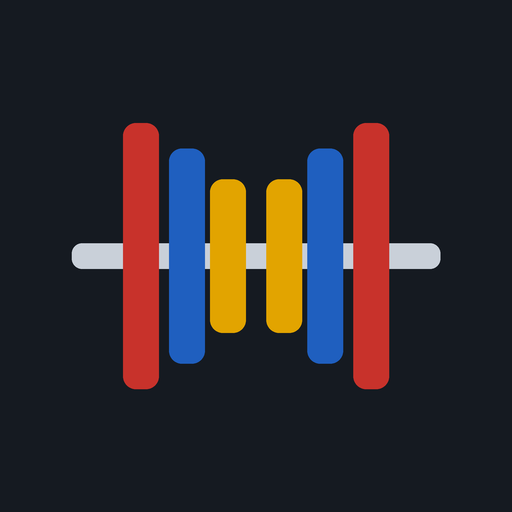
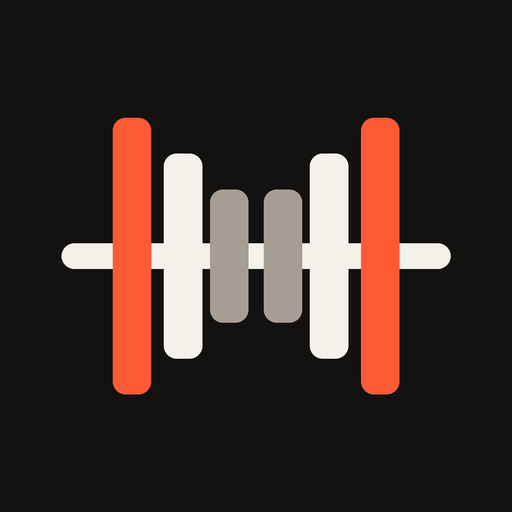
Version 1.4.1 Makeover

Changed region(s): [[0.125, 0.2188, 0.875, 0.7812]]

diff --git a/index.html b/index.html
@@ -6,9 +6,8 @@
 <meta name="apple-mobile-web-app-capable" content="yes">
 <meta name="mobile-web-app-capable" content="yes">
 <meta name="apple-mobile-web-app-title" content="Trainingslog">
-<meta name="apple-mobile-web-app-status-bar-style" content="default">
-<meta name="theme-color" content="#ffffff" media="(prefers-color-scheme: light)">
-<meta name="theme-color" content="#19202a" media="(prefers-color-scheme: dark)">
+<meta name="apple-mobile-web-app-status-bar-style" content="black-translucent">
+<meta name="theme-color" content="#131211">
 <link rel="manifest" href="manifest.webmanifest">
 <link rel="apple-touch-icon" href="icon-180.png">
 <link rel="icon" type="image/png" href="icon-192.png">
@@ -17,32 +16,20 @@
 <link rel="preconnect" href="https://fonts.gstatic.com" crossorigin>
 <link href="https://fonts.googleapis.com/css2?family=Big+Shoulders+Display:wght@600;800&family=Instrument+Sans:wght@400;500;600&display=swap" rel="stylesheet">
 <style>
-/* Layout: ein Bildschirm aus Kopfzeile, scrollendem Inhalt und Tableiste unten.
-   Der Akzent ist die Tagesfarbe, angelehnt an Hantelscheiben: Push rot, Pull blau, Legs gelb. */
+/* Marke: warmes Anthrazit und Kreideweiß, ein einziger Akzent im Rot der 25-kg-Scheibe.
+   Layout: ein Bildschirm aus Kopfzeile, scrollendem Inhalt und Tableiste unten. */
 :root{
-  --bg:#eceff3; --surface:#ffffff; --sunk:#f3f5f8; --ink:#151a21; --muted:#5b6573; --line:#d3d9e1;
-  --push:#c8322b; --pull:#1f5fbf; --legs:#e2a400; --good:#1c8749;
-  --on-push:#ffffff; --on-pull:#ffffff; --on-legs:#1c1500;
-  --c4:#7446c4; --c5:#0e8585; --on-c4:#ffffff; --on-c5:#ffffff;
-  --day:var(--pull); --on-day:var(--on-pull);
+  --bg:#131211; --surface:#1c1a18; --sunk:#171514; --raise:#27231f; --ink:#f4f0ea; --muted:#a69e94; --line:#332f2a;
+  --accent:#ff5a36; --on-accent:#1b0a05; --good:#5cc48d; --warn:#e6b450;
+  --push:var(--accent); --pull:var(--accent); --legs:var(--accent); --c4:var(--accent); --c5:var(--accent);
+  --on-push:var(--on-accent); --on-pull:var(--on-accent); --on-legs:var(--on-accent); --on-c4:var(--on-accent); --on-c5:var(--on-accent);
+  --day:var(--accent); --on-day:var(--on-accent);
+  --top-bg:var(--bg); --top-ink:var(--ink); --top-accent:var(--accent); --top-muted:var(--muted); --bar:#0e0d0c;
+  --r-s:8px; --r-m:12px; --r-l:18px;
+  --s1:4px; --s2:8px; --s3:12px; --s4:16px; --s5:24px; --s6:36px;
+  --t-xs:12px; --t-s:14px; --t-m:16px; --t-l:20px; --t-xl:28px; --t-2xl:44px;
   --display:"Big Shoulders Display","Arial Narrow",Impact,sans-serif;
   --body:"Instrument Sans",system-ui,-apple-system,"Segoe UI",sans-serif;
-  color-scheme:light;
-}
-@media (prefers-color-scheme:dark){
-  :root:not([data-theme="light"]){
-    --bg:#0f1319; --surface:#19202a; --sunk:#121820; --ink:#eef1f5; --muted:#98a3b2; --line:#2b3542;
-    --push:#f0635a; --pull:#62a0f6; --legs:#f3c033; --good:#4cc47f;
-    --on-push:#10141a; --on-pull:#10141a; --on-legs:#10141a;
-    --c4:#b394f5; --c5:#4fcfcf; --on-c4:#10141a; --on-c5:#10141a;
-    color-scheme:dark;
-  }
-}
-:root[data-theme="dark"]{
-  --bg:#0f1319; --surface:#19202a; --sunk:#121820; --ink:#eef1f5; --muted:#98a3b2; --line:#2b3542;
-  --push:#f0635a; --pull:#62a0f6; --legs:#f3c033; --good:#4cc47f;
-  --on-push:#10141a; --on-pull:#10141a; --on-legs:#10141a;
-    --c4:#b394f5; --c5:#4fcfcf; --on-c4:#10141a; --on-c5:#10141a;
   color-scheme:dark;
 }
 [data-day="push"]{--day:var(--push);--on-day:var(--on-push)}
@@ -231,21 +218,116 @@ svg.chart{display:block;width:100%;height:auto}
 .prow .ib{width:38px}
 .lab{display:flex;flex-direction:column;gap:4px;font-size:13px;color:var(--muted)}
 .note{font-size:13px;color:var(--muted)}
+/* ---------- Marken-Ebene: Flächen, Typo, Knöpfe, Karten ---------- */
+body{background:var(--bg);color:var(--ink);font-size:var(--t-m)}
+.top{background:var(--bg);border-bottom:1px solid var(--line)}
+.brand{display:flex;align-items:center;gap:8px;font-size:21px;letter-spacing:.08em;white-space:nowrap}
+.sync{white-space:nowrap;flex:none}
+.top{gap:8px}
+.brand svg{width:30px;height:18px;flex:none}
+.brand b{color:var(--accent)}
+.view{gap:var(--s4);padding:var(--s4) var(--s4) var(--s6)}
+.card{background:var(--surface);border:1px solid var(--line);border-radius:var(--r-l);padding:var(--s4)}
+.sect{font-size:var(--t-xl);letter-spacing:.04em}
+.note,.empty{color:var(--muted)}
+.link{color:var(--accent)}
+[data-day="legs"] .link{color:var(--accent)}
+.btn{font-family:var(--display);font-weight:800;font-size:19px;letter-spacing:.07em;text-transform:uppercase;line-height:1.1;padding:13px 22px;border-radius:var(--r-m);background:var(--accent);color:var(--on-accent)}
+.btn.sec{background:transparent;color:var(--ink);border:1.5px solid var(--muted)}
+a.btn{display:inline-block;text-decoration:none}
+.ghost{border-color:var(--muted);color:var(--ink);border-radius:var(--r-m)}
+.ib{background:var(--surface);border-color:var(--line);border-radius:var(--r-m)}
+select,.field{background:var(--raise);border-color:var(--line);border-radius:var(--r-m);color:var(--ink)}
+.field::placeholder,.step input::placeholder{color:var(--muted);opacity:.8}
+.step{background:var(--sunk);border-color:var(--line);border-radius:var(--r-m)}
+.step input{background:var(--raise);border-color:var(--line)}
+.step button{color:var(--ink)}
+.set.done .step input{background:var(--sunk)}
+.chk{background:var(--sunk);border-color:var(--muted);color:var(--muted);border-radius:var(--r-m)}
+.set.done .chk{background:var(--accent);border-color:var(--accent);color:var(--on-accent)}
+.ex{border-left:3px solid var(--accent)}
+.ex.full{border-left-color:var(--good)}
+.target{color:var(--accent)}
+.dayhead{gap:10px;padding:var(--s2) 0 var(--s1)}
+.dayhead h1{font-size:68px;letter-spacing:.01em}
+.dayhead h1.long{font-size:44px}
+.prog .bar{height:6px;background:var(--line)}
+.pill{background:var(--raise);border-color:var(--line)}
+.week{gap:5px}
+.wk{background:var(--surface);border-color:var(--line);border-bottom-color:var(--line);border-radius:var(--r-s);padding:7px 0 6px}
+.wk[data-day]{border-bottom-color:var(--accent)}
+.wk.cur{outline:2px solid var(--ink);outline-offset:2px}
+.chip{background:var(--surface);border-color:var(--line);border-radius:var(--r-m)}
+.chip[data-arm="1"]{border-color:var(--ink)}
+.seg{background:var(--sunk);border-color:var(--line);border-radius:var(--r-m)}
+.seg button{color:var(--muted)}
+.eq button{background:transparent;border-color:var(--muted);color:var(--ink)}
+.tiles{gap:var(--s2)}
+.tile{background:var(--surface);border-color:var(--line);border-radius:var(--r-m);padding:12px 12px 10px}
+.tile b{font-size:36px}
+.tile:first-child b{color:var(--accent)}
+.quick button{background:var(--surface);border-color:var(--line);border-radius:var(--r-m)}
+.fav{background:var(--surface);border-color:var(--line)}
+.wds button,.prow input{background:var(--raise);border-color:var(--line)}
+.plbtn{background:var(--raise);border-color:var(--line);border-radius:var(--r-m)}
+.plbtn[aria-pressed="true"]{border-color:var(--accent)}
+.pldel{background:transparent;border-color:var(--line)}
+.pday{border-top:3px solid var(--accent)}
+.hint{border-left:3px solid var(--accent)}
+.down{color:var(--warn)}
+.chart .dot{fill:var(--bg)}
+.chart .bar{opacity:.38}
+.chart .ar{opacity:.16}
+.chart .goal{stroke:var(--muted)}
+.ring .tr{stroke:var(--line)}
+.tag{border-radius:var(--r-s)}
+.tabs{border-top:1px solid var(--line)}
+.tabs a{display:flex;flex-direction:column;align-items:center;gap:4px;padding:9px 4px 10px;font-size:13px;letter-spacing:.1em;border-top:2px solid transparent}
+.tabs a svg{width:22px;height:22px}
+.tabs a[aria-current="page"]{color:var(--ink);border-top-color:var(--accent)}
+.tabs a[aria-current="page"] svg{color:var(--accent)}
+:focus-visible{outline:2px solid var(--accent);outline-offset:2px}
+/* Heller Modus: Blau und Weiß */
+:root[data-mode="light"]{
+  --bg:#f3f6fb; --surface:#ffffff; --sunk:#edf1f8; --raise:#f7f9fd; --ink:#0f1c33; --muted:#55627a; --line:#d4dcea;
+  --accent:#1556d6; --on-accent:#ffffff; --good:#17804a; --warn:#a05f00;
+  --top-bg:#1556d6; --top-ink:#ffffff; --top-accent:#bfd4ff; --top-muted:#dbe6ff; --bar:#ffffff;
+  color-scheme:light;
+}
+.top{background:var(--top-bg);border-bottom-color:transparent}
+:root:not([data-mode="light"]) .top{border-bottom-color:var(--line)}
+.brand{color:var(--top-ink)}
+.brand b{color:var(--top-accent)}
+.top .sync{color:var(--top-muted)}
+.tabs{background:var(--bar);grid-template-columns:repeat(4,minmax(0,1fr)) minmax(0,1.4fr)}
+.tabs a{font-size:11.5px;letter-spacing:.03em;min-width:0;padding-left:2px;padding-right:2px}
+.tabs a span{max-width:100%;overflow:hidden;white-space:nowrap}
+/* Einstieg ohne Plan */
+.hero{display:flex;flex-direction:column;gap:var(--s4);padding:var(--s5) 0 var(--s2)}
+.hero .mark{width:100%;max-width:340px;height:auto}
+.eyebrow{font-size:var(--t-xs);letter-spacing:.18em;text-transform:uppercase;color:var(--accent);font-weight:600}
+.hero h1{font-family:var(--display);font-weight:800;font-size:clamp(56px,19vw,84px);line-height:.88;text-transform:uppercase;letter-spacing:.005em;text-wrap:balance}
+.hero h1 em{font-style:normal;color:var(--accent)}
+.hero .lead{font-size:17px;line-height:1.45;max-width:34ch}
+.feat{list-style:none;margin:var(--s2) 0 0;padding:0;border-top:1px solid var(--line)}
+.feat li{display:grid;grid-template-columns:92px 1fr;gap:var(--s3);padding:13px 0;border-bottom:1px solid var(--line);font-size:var(--t-s);color:var(--muted);align-items:baseline}
+.feat b{font-family:var(--display);font-weight:800;font-size:19px;letter-spacing:.07em;text-transform:uppercase;color:var(--ink)}
 @media (prefers-reduced-motion:reduce){*{animation:none!important;transition:none!important}}
 </style>
 </head>
 <body data-day="pull">
 <header class="top">
-  <div class="brand">Trainings<b>log</b></div>
+  <div class="brand"><svg viewBox="0 0 60 36" aria-hidden="true"><rect x="2" y="16" width="56" height="4" rx="2" style="fill:var(--top-ink)"/><rect x="9" y="3" width="7" height="30" rx="2" style="fill:var(--top-accent)"/><rect x="18" y="8" width="5" height="20" rx="2" style="fill:var(--top-ink)"/><rect x="44" y="3" width="7" height="30" rx="2" style="fill:var(--top-accent)"/><rect x="37" y="8" width="5" height="20" rx="2" style="fill:var(--top-ink)"/></svg><span>Trainings<b>log</b></span></div>
   <div class="sync" id="sync" data-s="loading"><i></i><span id="syncText">Lädt …</span></div>
 </header>
 <button id="toast" hidden aria-live="assertive"></button>
 <main id="main"><div class="view" id="view"></div></main>
 <nav class="tabs" id="tabs" aria-label="Bereiche">
-  <a href="#heute">Training</a>
-  <a href="#verlauf">Verlauf</a>
-  <a href="#protein">Protein</a>
-  <a href="#plan">Plan</a>
+  <a href="#heute"><svg viewBox="0 0 24 24" fill="none" stroke="currentColor" stroke-width="2" stroke-linecap="round" stroke-linejoin="round" aria-hidden="true"><path d="M3 12h18M6.5 7v10M17.5 7v10M3.5 9.5v5M20.5 9.5v5"/></svg><span>Training</span></a>
+  <a href="#verlauf"><svg viewBox="0 0 24 24" fill="none" stroke="currentColor" stroke-width="2" stroke-linecap="round" stroke-linejoin="round" aria-hidden="true"><path d="M4 18l5-6 4 3 7-9M15 6h5v5"/></svg><span>Verlauf</span></a>
+  <a href="#protein"><svg viewBox="0 0 24 24" fill="none" stroke="currentColor" stroke-width="2" stroke-linecap="round" stroke-linejoin="round" aria-hidden="true"><circle cx="12" cy="12" r="8.5" opacity=".35"/><path d="M12 3.5a8.5 8.5 0 1 1-7.4 12.7"/></svg><span>Protein</span></a>
+  <a href="#plan"><svg viewBox="0 0 24 24" fill="none" stroke="currentColor" stroke-width="2" stroke-linecap="round" stroke-linejoin="round" aria-hidden="true"><rect x="4" y="5" width="16" height="15" rx="2"/><path d="M4 10h16M9 3v4M15 3v4"/></svg><span>Plan</span></a>
+  <a href="#einstellungen"><svg viewBox="0 0 24 24" fill="none" stroke="currentColor" stroke-width="2" stroke-linecap="round" stroke-linejoin="round" aria-hidden="true"><path d="M4 7h9M17 7h3M4 17h3M11 17h9"/><circle cx="15" cy="7" r="2"/><circle cx="9" cy="17" r="2"/></svg><span>Einstellungen</span></a>
 </nav>
 <script>
 (function(){
@@ -268,7 +350,7 @@ var dShort=new Intl.DateTimeFormat('de-DE',{day:'2-digit',month:'2-digit'});
 function shortDate(s){return dShort.format(parse(s))}
 
 function defaults(){return{v:2,t:0,proteinGoal:150,step:2.5,favs:[],days:[]}}
-var STANDALONE=true,BUILD='16.11.2026 16:45';
+var STANDALONE=true,BUILD='1.4.1';
 var EQ=[['lh','Langhantel mit Rack'],['bank','Hantelbank'],['kh','Kurzhanteln'],['kabel','Kabelzug'],['lat','Latzug'],['ruder','Rudermaschine'],['brust','Brustpresse'],['fly','Butterfly'],
   ['schulter','Schulterpresse'],['smith','Multipresse'],['bp','Beinpresse'],['strecker','Beinstrecker'],['beuger','Beinbeuger'],['wade','Wadenmaschine'],['klimm','Klimmzugstange'],['dip','Dip-Barren']];
 var SLOT={
@@ -489,7 +571,7 @@ function weekStrip(){var mon=mondayOf(view.date),plan=weekPlan(mon);
     return'<button class="wk'+(d===view.date?' cur':'')+(dn?' dn':'')+'" data-act="goto" data-date="'+d+'"'+(dd?' data-day="'+col(dd)+'"':'')+(d>weekEnd()?' disabled':'')+
       ' aria-label="'+esc(dLong.format(parse(d))+': '+(dd?dd.name:'Ruhetag')+(dn?', erledigt':''))+'"><span>'+WD[parse(d).getDay()]+'</span><b>'+(dd?esc(dd.short||dd.name||'Tag'):(S.config.days.length?'Ruhe':'–'))+'</b></button>'}).join('')+'</div>'}
 var storageOK=(function(){try{localStorage.setItem('trainingslog.test','1');var ok=localStorage.getItem('trainingslog.test')==='1';localStorage.removeItem('trainingslog.test');return ok}catch(e){return false}})();
-function topNotes(){var h=auth?'':'<p class="note">Nicht angemeldet, deine Einträge liegen nur auf diesem Gerät. <a class="link" href="#plan">Anmelden</a></p>';
+function topNotes(){var h=auth?'':'<p class="note">Nicht angemeldet, deine Einträge liegen nur auf diesem Gerät. <a class="link" href="#einstellungen">Anmelden</a></p>';
   if(!storageOK)h+='<div class="card stack hint"><p><b>Dieser Browser speichert nichts dauerhaft.</b></p><p class="note">Das passiert zum Beispiel in einem privaten Tab. Öffne die App in einem normalen Tab oder über das Icon auf dem Home-Bildschirm.</p></div>';
   return h}
 function wizard(){var su=view.setup||(view.setup={n:0,goal:'muskel',eq:JSON.parse(JSON.stringify(S.config.eq||{}))});
@@ -531,8 +613,13 @@ function dayText(date){
   pl.forEach(function(x){L.push('  '+(x.l||'Protein')+': '+fmt(x.g)+' g')});
   return L.join('\n')}
 function renderToday(){
-  if(!S.config.days.length){document.body.dataset.day='pull';$('#view').innerHTML=topNotes()+dateBar()+weekStrip()+
-    '<div class="card stack"><h1 class="sect">Noch kein Trainingsplan</h1><p class="note">Dein Kalender ist leer. Im Tab Plan legst du über „Neuer Plan“ einen an.</p><div><a class="btn" href="#plan" style="text-decoration:none;display:inline-block">Zum Plan</a></div></div>';return}
+  if(!S.config.days.length){document.body.dataset.day='pull';$('#view').innerHTML=topNotes()+
+    '<section class="hero"><svg class="mark" viewBox="0 0 340 96" aria-hidden="true"><rect x="0" y="44" width="340" height="8" rx="4" style="fill:var(--ink)"/><rect x="44" y="4" width="22" height="88" rx="5" style="fill:var(--accent)"/><rect x="72" y="14" width="16" height="68" rx="5" style="fill:var(--ink)"/><rect x="94" y="26" width="11" height="44" rx="4" style="fill:var(--muted)"/><rect x="274" y="4" width="22" height="88" rx="5" style="fill:var(--accent)"/><rect x="252" y="14" width="16" height="68" rx="5" style="fill:var(--ink)"/><rect x="235" y="26" width="11" height="44" rx="4" style="fill:var(--muted)"/></svg><p class="eyebrow">Dein Trainingstagebuch fürs Gym</p><h1>Jeder Satz <em>zählt.</em></h1>'+
+    '<p class="lead">Plane deine Woche, hake jeden Satz ab und sieh, wie deine Gewichte steigen. Für alle, die im Gym trainieren und ihren Fortschritt festhalten wollen.</p>'+
+    '<div class="rowbtns"><a class="btn" href="#plan">Plan anlegen</a></div>'+
+    '<ul class="feat"><li><b>Plan</b><span>Eigene Pläne oder ein Vorschlag nach Ziel und Geräten</span></li><li><b>Training</b><span>Sätze mit Gewicht und Wiederholungen abhaken</span></li>'+
+    '<li><b>Verlauf</b><span>Steigerung je Übung und insgesamt</span></li><li><b>Protein</b><span>Dein Tagesziel im Blick</span></li></ul></section>'+
+    '<h2 class="sect">Deine Woche</h2>'+dateBar()+weekStrip()+'<p class="note">Noch leer. Sobald dein Plan steht, siehst du hier jeden Trainingstag.</p>';return}
   if(view.day===null)view.day=pickDay(view.date);
   var day=view.day?dayById(view.day):null,s=sess(view.date);
   document.body.dataset.day=day?col(day):'pull';
@@ -658,7 +745,7 @@ function renderProtein(){
 }
 
 function renderPlan(){
-  var h=kontoCard()+plansCard(),ap=activePlan();
+  var h=plansCard(),ap=activePlan();
   if(view.planMsg){h+='<p class="tip">'+esc(view.planMsg)+'</p>';view.planMsg=''}
   if(ap)h+='<h1 class="sect">Aktiver Plan</h1><label class="lab" for="plRename">Name des Plans<input class="field" id="plRename" value="'+esc(ap.name||'')+'"></label>'+
     '<p class="note">Das ist deine Standardwoche. Einen einzelnen Ruhetag verlegst du im Tab Training.</p>'+(S.config.days.length?'':'<p class="note">Dieser Plan hat noch keine Trainingstage.</p>');
@@ -679,7 +766,21 @@ function renderPlan(){
         '<button class="ib" data-act="exdel" aria-label="Übung entfernen">×</button></div></div>'});
     h+='<div class="rowbtns"><button class="ghost" data-act="exadd">+ Übung</button><button class="ghost" data-act="daydel">Tag löschen</button></div></section>'});
   if(ap)h+='<div class="rowbtns"><button class="btn" data-act="dayadd">+ Trainingstag</button><button class="ghost" data-act="pldel">Plan löschen</button></div>';
-  h+='<div class="card stack"><h2 class="sect">Einstellungen</h2>'+
+  $('#view').innerHTML=h;
+  if(view.focusId){var fe0=document.getElementById(view.focusId);view.focusId=null;if(fe0){fe0.scrollIntoView({block:'center'});try{fe0.focus({preventScroll:true})}catch(e){}}}
+}
+
+var theme='dark';
+function setTheme(m){theme=m==='light'?'light':'dark';document.documentElement.dataset.mode=theme;try{localStorage.setItem('trainingslog.theme',theme)}catch(e){}
+  var mt=document.querySelector('meta[name="theme-color"]');if(mt)mt.setAttribute('content',theme==='light'?'#1556d6':'#131211')}
+(function(){var m='dark';try{m=localStorage.getItem('trainingslog.theme')||'dark'}catch(e){}setTheme(m)})();
+function renderSettings(){
+  var h='<h1 class="sect">Einstellungen</h1>';
+  h+='<div class="card stack"><h2 class="sect">Darstellung</h2><div class="seg">'+[['dark','Dunkel'],['light','Hell']].map(function(m){return'<button data-act="theme" data-m="'+m[0]+'" aria-pressed="'+(theme===m[0])+'">'+m[1]+'</button>'}).join('')+'</div>'+
+    '<p class="note">Dunkel ist Anthrazit mit Rot, Hell ist Blau und Weiß. Die Wahl gilt für dieses Gerät.</p></div>';
+  h+=kontoCard();
+  h+='<div class="card stack"><h2 class="sect">Training</h2>'+
+    '<label class="lab" for="goalSet">Protein-Tagesziel in Gramm<input class="field" id="goalSet" inputmode="numeric" value="'+fin(S.config.proteinGoal||0)+'"></label>'+
     '<label class="lab" for="stepSel">Schritt der Plus- und Minus-Tasten beim Gewicht<select id="stepSel">'+[1,1.25,2.5,5].map(function(v){return'<option value="'+v+'"'+(S.config.step===v?' selected':'')+'>'+fmt(v)+' kg</option>'}).join('')+'</select></label>'+
     '</div><div class="card stack"><h2 class="sect">Sicherung</h2>'+
     '<p class="note">'+(auth?'Deine Einträge liegen auf dem Server. Eine Datei-Sicherung ist nur eine zusätzliche Absicherung.':'Ohne Konto liegen deine Einträge nur auf diesem Gerät. Wenn du das Icon vom Home-Bildschirm löschst, sind sie weg.')+'</p>'+
@@ -691,15 +792,14 @@ function renderPlan(){
     '<p class="note">Safari und das Icon speichern getrennt. Melde dich deshalb in der App vom Icon noch einmal an.</p></div>';
   h+='<p class="note">Version '+BUILD+'</p>';
   $('#view').innerHTML=h;
-  if(view.focusId){var fe0=document.getElementById(view.focusId);view.focusId=null;if(fe0){fe0.scrollIntoView({block:'center'});try{fe0.focus({preventScroll:true})}catch(e){}}}
 }
 
 function render(){
   document.querySelectorAll('#tabs a').forEach(function(a){if(a.getAttribute('href')==='#'+view.tab)a.setAttribute('aria-current','page');else a.removeAttribute('aria-current')});
   if(view.tab!=='heute'){var d=view.day?dayById(view.day):null;document.body.dataset.day=d?col(d):'pull'}
-  if(view.tab==='verlauf')renderStats();else if(view.tab==='protein')renderProtein();else if(view.tab==='plan')renderPlan();else renderToday();
+  if(view.tab==='verlauf')renderStats();else if(view.tab==='protein')renderProtein();else if(view.tab==='plan')renderPlan();else if(view.tab==='einstellungen')renderSettings();else renderToday();
 }
-function route(){var h=(location.hash||'').slice(1);var nt=['heute','verlauf','protein','plan'].indexOf(h)>=0?h:'heute';
+function route(){var h=(location.hash||'').slice(1);var nt=['heute','verlauf','protein','plan','einstellungen'].indexOf(h)>=0?h:'heute';
   if(nt!==view.tab){view.tab=nt;$('#main').scrollTop=0}render()}
 
 /* ---------- Pausenuhr ---------- */
@@ -783,6 +883,7 @@ document.addEventListener('click',function(ev){
       if(STANDALONE){try{var xf=new File([xt],fn,{type:'text/plain'});if(navigator.canShare&&navigator.canShare({files:[xf]})){navigator.share({files:[xf]}).catch(function(){});break}}catch(e){}
         var xa=document.createElement('a');xa.href=URL.createObjectURL(new Blob([xt],{type:'text/plain;charset=utf-8'}));xa.download=fn;document.body.appendChild(xa);xa.click();xa.remove();xn.textContent='Als '+fn+' gespeichert.';break}
       try{navigator.clipboard.writeText(xt).then(function(){xn.textContent='Kopiert. Füge den Text in eine Notiz oder Nachricht ein.'},function(){xn.textContent='Kopieren wurde vom Browser nicht erlaubt.'})}catch(e){xn.textContent='Kopieren wurde vom Browser nicht erlaubt.'}break;
+    case'theme':setTheme(b.dataset.m);render();break;
     case'metric':view.metric=b.dataset.m;renderStats();break;
     case'padd':addProtein(+b.dataset.g,'');break;
     case'pfav':var fv=S.config.favs[+b.dataset.i];if(fv)addProtein(fv.g,fv.label);break;
@@ -809,16 +910,16 @@ document.addEventListener('click',function(ev){
       .then(function(j){if(j&&j.access_token){setSession(j);authMsg='';startCloud()}
         else if(j&&j.identities&&j.identities.length===0)authMsg='Für diese Adresse gibt es schon ein Konto. Melde dich an.';
         else authMsg='Fast fertig: Öffne den Link in der E-Mail an '+em+' und melde dich danach hier an.';
-        renderPlan()},function(e){b.disabled=false;am.textContent=authErr(e)});break;
+        render()},function(e){b.disabled=false;am.textContent=authErr(e)});break;
     case'logout':if(cloud&&Object.keys(S.dirty).length){$('#accMsg').textContent='Es ist noch nicht alles gesichert. Bitte kurz warten und noch einmal abmelden.';clearTimeout(ft);flush();break}
       var ot=auth&&auth.access_token;if(ot)sbFetch('/auth/v1/logout','POST',null,ot).catch(function(){});
-      S.config=defaults();S.months={};S.dirty={};delete S.owner;saveLocal();view.day=null;signedOut('Abgemeldet. Die Einträge bleiben auf dem Server.');if(view.tab!=='plan')render();break;
+      S.config=defaults();S.months={};S.dirty={};delete S.owner;saveLocal();view.day=null;signedOut('Abgemeldet. Die Einträge bleiben auf dem Server.');break;
     case'bfile':var bt=JSON.stringify({config:S.config,months:S.months}),bn='trainingslog-'+todayIso()+'.json',note2=$('#backupNote');
       try{var file=new File([bt],bn,{type:'application/json'});
         if(navigator.canShare&&navigator.canShare({files:[file]})){navigator.share({files:[file]}).then(function(){note2.textContent='Sicherung übergeben.'},function(){});break}}catch(e){}
       var ba=document.createElement('a');ba.href=URL.createObjectURL(new Blob([bt],{type:'application/json'}));ba.download=bn;document.body.appendChild(ba);ba.click();ba.remove();
       note2.textContent='Sicherung als Datei gespeichert.';break;
-    case'impgo':if(!pendingImport)break;S.config=pendingImport.config;S.months=pendingImport.months||{};S.dirty={};pendingImport=null;var now=Date.now();S.config.t=now;S.dirty.config=1;Object.keys(S.months).forEach(function(k){S.months[k].t=now;S.dirty[k]=1});if(auth)S.owner=auth.user.id;saveLocal();scheduleFlush();view.day=null;renderPlan();
+    case'impgo':if(!pendingImport)break;S.config=pendingImport.config;S.months=pendingImport.months||{};S.dirty={};pendingImport=null;var now=Date.now();S.config.t=now;S.dirty.config=1;Object.keys(S.months).forEach(function(k){S.months[k].t=now;S.dirty[k]=1});if(auth)S.owner=auth.user.id;saveLocal();scheduleFlush();view.day=null;render();
       $('#backupNote').textContent='Sicherung eingespielt.';break;
     case'backup':var txt=JSON.stringify({config:S.config,months:S.months}),note=$('#backupNote');
       try{navigator.clipboard.writeText(txt).then(function(){note.textContent='Sicherung kopiert. Füge sie in eine Notiz ein, um sie aufzubewahren.'},function(){note.textContent='Kopieren wurde vom Browser nicht erlaubt.'})}
@@ -833,7 +934,7 @@ document.addEventListener('change',function(ev){
       var n=$('#backupNote'),g=$('#impGo');if(o&&o.config&&Array.isArray(o.config.days)){pendingImport=o;if(g)g.hidden=false;if(n)n.textContent='Datei gelesen. Mit dem Knopf ersetzt du alle Einträge auf diesem Gerät.'}
       else{pendingImport=null;if(g)g.hidden=true;if(n)n.textContent='Das ist keine gültige Trainingslog-Sicherung.'}};rd.readAsText(f0);return}
   if(t.id==='exSel'){view.exSel=t.value;renderStats();return}
-  if(t.id==='goalIn'){var g=num(t.value);if(g!=null&&g>=0){S.config.proteinGoal=Math.round(g);touch('config')}renderProtein();return}
+  if(t.id==='goalIn'||t.id==='goalSet'){var g=num(t.value);if(g!=null&&g>=0){S.config.proteinGoal=Math.round(g);touch('config')}render();return}
   if(t.id==='stepSel'){S.config.step=parseFloat(t.value);touch('config');return}
   if(t.dataset.pf){var d=dayById(t.closest('.pday').dataset.id);d[t.dataset.pf]=t.value.trim();
     if(t.dataset.pf==='name'){delete d.short;t.closest('.pday').querySelector('h2').textContent=d.name||'Neuer Tag'}touch('config');return}
@@ -893,7 +994,7 @@ function sbFetch(path,method,body,tok,extra){var hd={apikey:SB_KEY,'Content-Type
   return fetch(SB_URL+path,{method:method,headers:hd,body:bs,keepalive:!!bs&&bs.length<60000}).then(function(r){return r.text().then(function(t){var j=null;try{j=t?JSON.parse(t):null}catch(e){}
     if(!r.ok){var er=new Error((j&&(j.msg||j.error_description||j.message))||('Fehler '+r.status));er.status=r.status;er.code=j&&(j.error_code||j.code||j.error);throw er}return j})})}
 function setSession(j){auth={access_token:j.access_token,refresh_token:j.refresh_token,expires_at:j.expires_at||Math.floor(Date.now()/1000)+(j.expires_in||3600),user:{id:j.user.id,email:j.user.email}};saveAuth()}
-function signedOut(msg){auth=null;saveAuth();cloud=null;clearTimeout(ft);setSync('local');authMsg=msg||'';if(view.tab==='plan'||view.tab==='heute')render()}
+function signedOut(msg){auth=null;saveAuth();cloud=null;clearTimeout(ft);setSync('local');authMsg=msg||'';render()}
 function token(){if(!auth)return Promise.reject(new Error('abgemeldet'));if(auth.expires_at-Date.now()/1000>90)return Promise.resolve(auth.access_token);
   if(!refreshing)refreshing=sbFetch('/auth/v1/token?grant_type=refresh_token','POST',{refresh_token:auth.refresh_token}).then(function(j){setSession(j);refreshing=null;return auth.access_token},
     function(e){refreshing=null;if(e.status===400||e.status===401||e.status===403)signedOut('Deine Anmeldung ist abgelaufen. Bitte melde dich neu an.');throw e});

diff --git a/sw.js b/sw.js
@@ -1,4 +1,4 @@
-const C='trainingslog-v12';
+const C='trainingslog-v15';
 const SHELL=['./','./index.html','./manifest.webmanifest','./icon-180.png','./icon-192.png'];
 self.addEventListener('install',e=>{e.waitUntil(caches.open(C).then(c=>c.addAll(SHELL)));self.skipWaiting()});
 self.addEventListener('activate',e=>{e.waitUntil(caches.keys().then(k=>Promise.all(k.filter(x=>x!==C).map(x=>caches.delete(x)))).then(()=>self.clients.claim()))});
